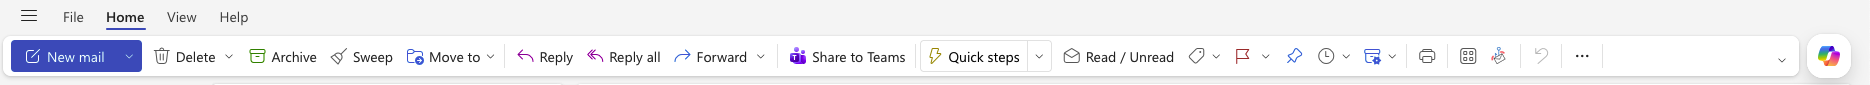
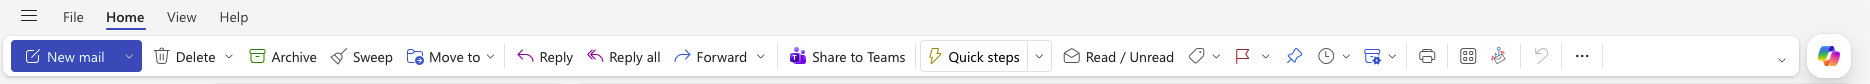
style: adjust header image heights by one pixel and update corresponding assets

diff --git a/app/page.tsx b/app/page.tsx
@@ -31,7 +31,7 @@ function HomeContent() {
   return (
     <div className="outlook-shell">
       {/* Top Header Image */}
-      <div style={{ position: "relative", width: "100%", height: "49px", flexShrink: 0 }}>
+      <div style={{ position: "relative", width: "100%", height: "48px", flexShrink: 0 }}>
         <Image src="/images/top-header.png" alt="Top Header" fill style={{ objectFit: "cover", objectPosition: "left top" }} priority unoptimized />
       </div>
 
@@ -43,7 +43,7 @@ function HomeContent() {
 
         <div className="outlook-shell__main-area">
           {/* Second Header Image with invisible button */}
-          <div style={{ position: "relative", width: "100%", height: "85px", flexShrink: 0, backgroundColor: "#f5f5f5" }}>
+          <div style={{ position: "relative", width: "100%", height: "84px", flexShrink: 0, backgroundColor: "#f5f5f5" }}>
             <Image src="/images/second-header.png" alt="Ribbon" fill style={{ objectFit: "cover", objectPosition: "left top" }} priority unoptimized />
             <button
               onClick={() => setShowAddDialog(true)}
